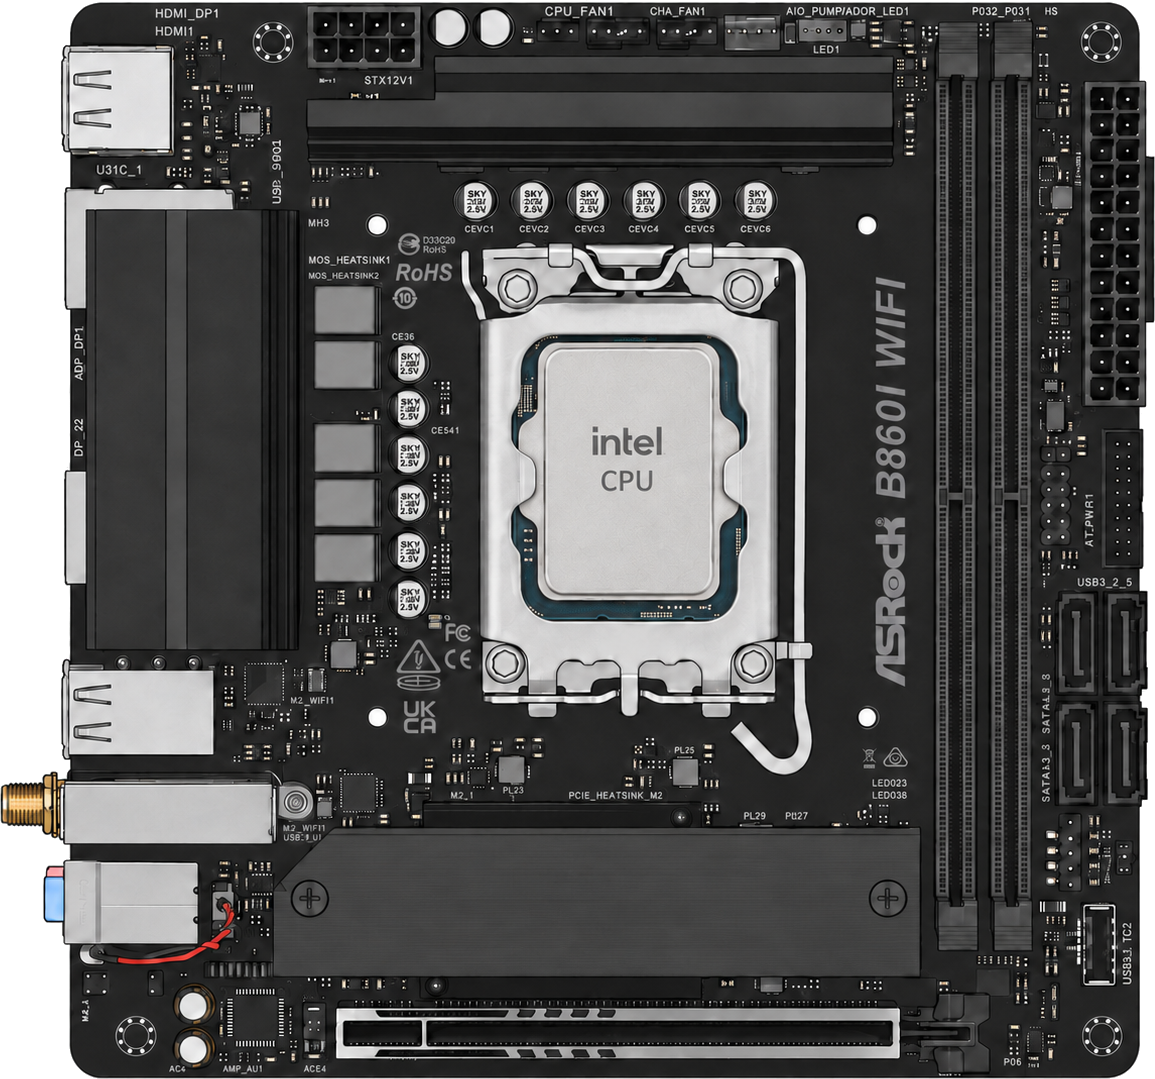
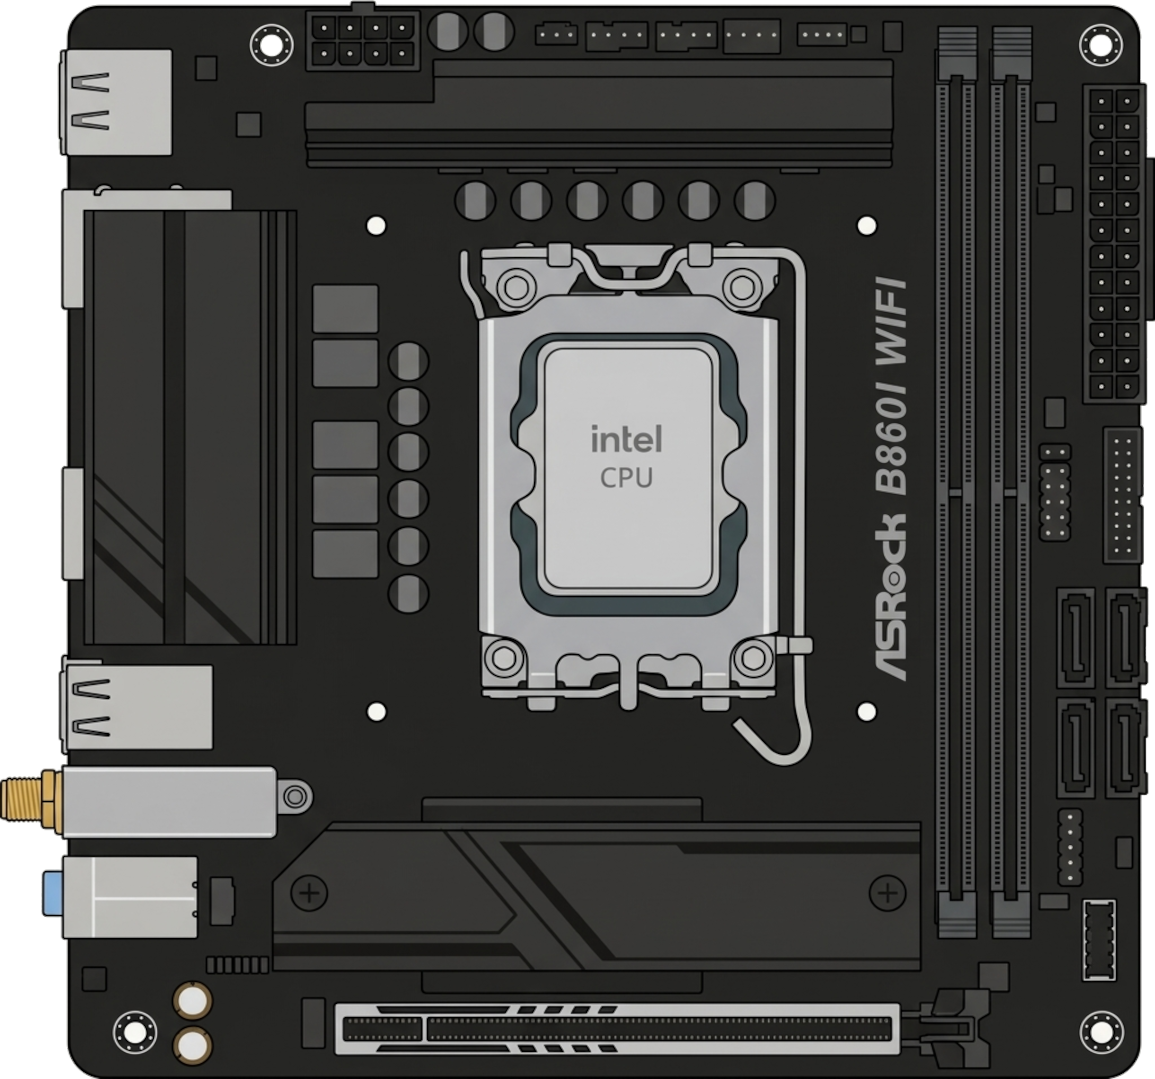
updates X4 motherboard image and cursor hovering, also fixes temp readings

Changed region(s): [[0.0, 0.0, 1.0, 1.0], [0.0623, 0.9787, 0.0935, 1.0]]

diff --git a/45drives-motherboard/src/components/P5Motherboard.vue b/45drives-motherboard/src/components/P5Motherboard.vue
@@ -86,8 +86,17 @@ export default {
 			const mobo_json_path = `img/motherboard/${mobo_name}/${mobo_name}.json`;
 
 			m.createComponentMasks = function (a) {
-				const img_path = `img/motherboard/${String(mobo_name)}/${mobo_json[a]["filename"]}`;
-				MASK_ARR.push(m.loadImage(img_path));
+				const componentData = mobo_json[a];
+				if (componentData["filename"]) {
+					const img_path = `img/motherboard/${String(mobo_name)}/${componentData["filename"]}`;
+					MASK_ARR.push(m.loadImage(img_path));
+				} else {
+					MASK_ARR.push(m.generateMask(
+						background_img.width, background_img.height,
+						componentData["x0"], componentData["y0"],
+						componentData["width"], componentData["height"]
+					));
+				}
 			};
 
 			class component {
@@ -1408,6 +1417,9 @@ export default {
 
 					for (let c = 0; c < components.length; c++) {
 						let connectorType = components[c].type;
+						if (raw_mobo_name === "B860I WiFi" && /^SATA3_[0-3]$/.test(connectorType)) {
+							components[c].popup.content = "Connector: " + connectorType + "\nNo drive connected";
+						}
 						if (connectorMap[connectorType]) {
 							let popup_str = "Connector: " + connectorType + "\n";
 
